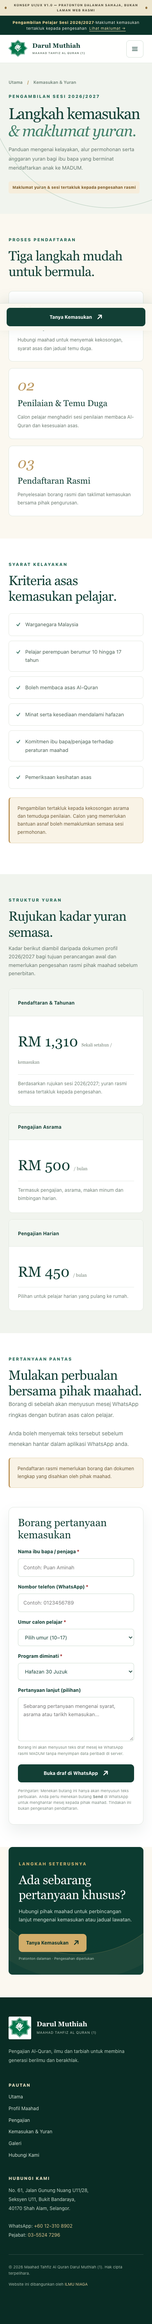
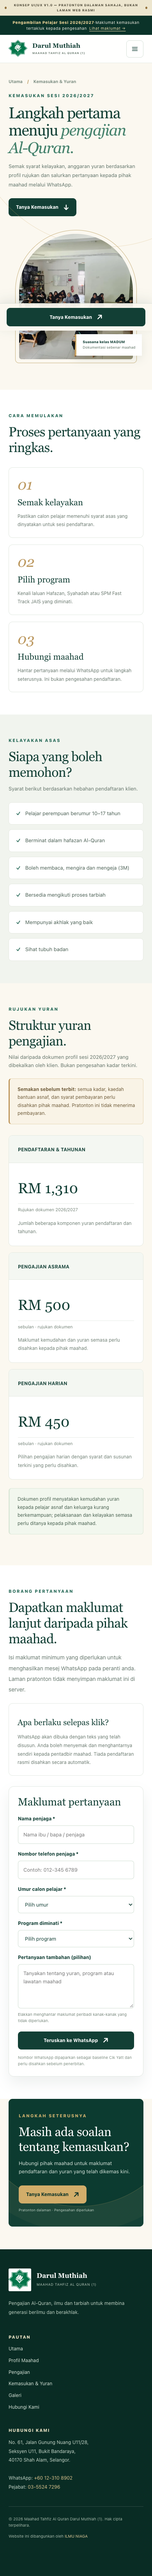
fix(fidelity): align Kemasukan hero and fee structures with prototype v1.0 and update visual QA audit

Changed region(s): [[0.0, 0.0, 1.0, 0.9976]]

diff --git a/src/content/fees.ts b/src/content/fees.ts
@@ -12,26 +12,26 @@ export interface FeeItem {
 export const feeItems: FeeItem[] = [
   {
     id: 'pendaftaran',
-    category: 'Pendaftaran & Tahunan',
+    category: 'PENDAFTARAN & TAHUNAN',
     value: claimsRegistry.fee_registration_annual.value,
-    period: 'Sekali setahun / kemasukan',
-    description: 'Berdasarkan rujukan sesi 2026/2027; yuran rasmi semasa tertakluk kepada pengesahan.',
+    period: 'Rujukan dokumen 2026/2027',
+    description: 'Jumlah beberapa komponen yuran pendaftaran dan tahunan.',
     claimId: 'fee_registration_annual'
   },
   {
     id: 'asrama',
-    category: 'Pengajian Asrama',
+    category: 'PENGAJIAN ASRAMA',
     value: claimsRegistry.fee_hostel_monthly.value,
-    period: '/ bulan',
-    description: 'Termasuk pengajian, asrama, makan minum dan bimbingan harian.',
+    period: 'sebulan · rujukan dokumen',
+    description: 'Maklumat kemudahan dan yuran semasa perlu disahkan kepada pihak maahad.',
     claimId: 'fee_hostel_monthly'
   },
   {
     id: 'harian',
-    category: 'Pengajian Harian',
+    category: 'PENGAJIAN HARIAN',
     value: claimsRegistry.fee_day_monthly.value,
-    period: '/ bulan',
-    description: 'Pilihan untuk pelajar harian yang pulang ke rumah.',
+    period: 'sebulan · rujukan dokumen',
+    description: 'Pilihan pengajian harian dengan syarat dan susunan terkini yang perlu disahkan.',
     claimId: 'fee_day_monthly'
   }
 ];
@@ -39,26 +39,26 @@ export const feeItems: FeeItem[] = [
 export const admissionsSteps = [
   {
     num: '01',
-    title: 'Pertanyaan & Maklumat',
-    description: 'Hubungi maahad untuk menyemak kekosongan, syarat asas dan jadual temu duga.'
+    title: 'Semak kelayakan',
+    description: 'Pastikan calon pelajar memenuhi syarat asas yang dinyatakan untuk sesi pendaftaran.'
   },
   {
     num: '02',
-    title: 'Penilaian & Temu Duga',
-    description: 'Calon pelajar menghadiri sesi penilaian membaca Al-Quran dan kesesuaian asas.'
+    title: 'Pilih program',
+    description: 'Kenali laluan Hafazan, Syahadah atau SPM Fast Track JAIS yang diminati.'
   },
   {
     num: '03',
-    title: 'Pendaftaran Rasmi',
-    description: 'Penyelesaian borang rasmi dan taklimat kemasukan bersama pihak pengurusan.'
+    title: 'Hubungi maahad',
+    description: 'Hantar pertanyaan melalui WhatsApp untuk langkah seterusnya. Ini bukan pengesahan pendaftaran.'
   }
 ];
 
 export const admissionsChecklist = [
-  'Warganegara Malaysia',
-  'Pelajar perempuan berumur 10 hingga 17 tahun',
-  'Boleh membaca asas Al-Quran',
-  'Minat serta kesediaan mendalami hafazan',
-  'Komitmen ibu bapa/penjaga terhadap peraturan maahad',
-  'Pemeriksaan kesihatan asas'
+  'Pelajar perempuan berumur 10–17 tahun',
+  'Berminat dalam hafazan Al-Quran',
+  'Boleh membaca, mengira dan mengeja (3M)',
+  'Bersedia mengikuti proses tarbiah',
+  'Mempunyai akhlak yang baik',
+  'Sihat tubuh badan'
 ];
